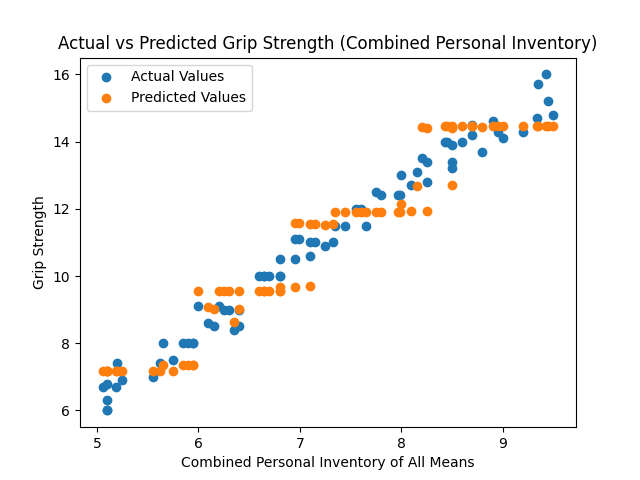
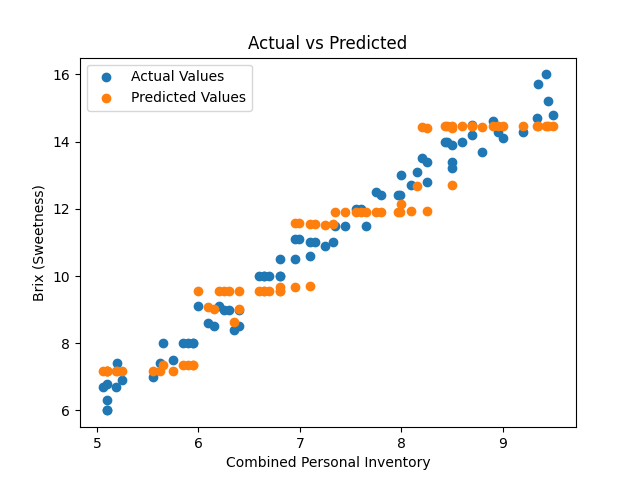
Fix labels

Changed region(s): [[0.0938, 0.0625, 0.9375, 0.125], [0.2812, 0.9375, 0.75, 1.0], [0.0312, 0.375, 0.0938, 0.625]]

diff --git a/generatePredictive.py b/generatePredictive.py
@@ -71,9 +71,9 @@ def make_predictive(file_name, column_names):
     my_predict_model = plt.scatter(X_test['combined_feat'], y_test, label='Actual Values')
     sorted_indices = X_test['combined_feat'].squeeze().argsort()
     plt.scatter(X_test['combined_feat'].iloc[sorted_indices], y_pred[sorted_indices], label='Predicted Values')
-    plt.title('Actual vs Predicted Grip Strength (Combined Personal Inventory)')
-    plt.xlabel('Combined Personal Inventory of All Means')
-    plt.ylabel('Grip Strength')
+    plt.title('Actual vs Predicted')
+    plt.xlabel('Combined Variables')
+    plt.ylabel(column_names[0])
     plt.legend()
     
     my_path = os.path.abspath(__file__)
